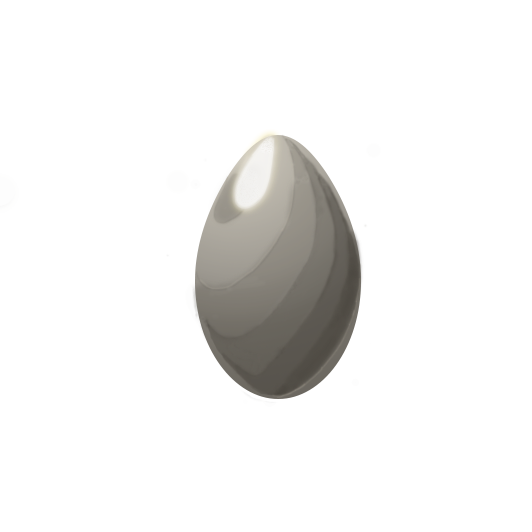
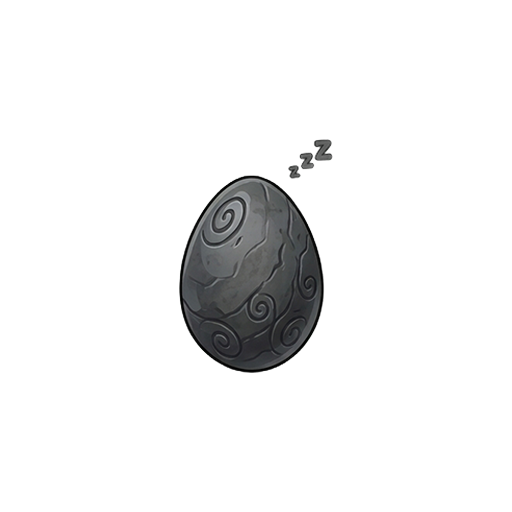
feat: Bouldog artwork, new egg stages, and particles that react to taps
Bouldog gets its three tiers, ordered by measuring each subject rather
than judging by eye, and scaled relative to one another so the growth
reads in game.

The five egg stages are replaced by the new artwork. Their natural sizes
climb from 147 to 427 pixels across the sequence, and that progression
is preserved rather than normalised, so the egg visibly grows as it
nears hatching.

Tapping the egg now throws particles outward. They are drawn in code
rather than added as assets: no weight, and their colour follows the
egg's stage from grey to gold. Only the outward push is animated while
starting positions are computed once outside the component, since
recomputing them per render would make the dust flicker.

Two constraints shaped this. A single animated value drives all ten
particles, because one value each would multiply the per-tap work by ten
against an autoclicker running near seven taps a second. And the burst
restarts at most every 140ms — without that guard it would relaunch
every 150ms against a 460ms animation, so the particles would never
leave the egg. No tap triggers a setState, and the layer takes
pointerEvents none so the tap zone stays whole.

Changed region(s): [[0.3438, 0.25, 0.6875, 0.75]]

diff --git a/mobile/src/screens/games/ClickerScreen.js b/mobile/src/screens/games/ClickerScreen.js
@@ -767,6 +767,21 @@ export default function ClickerScreen({ onBack, onOpenOptions, onOpenQuests }) {
   // distingue plus "je récolte des pièces" de "je casse l'œuf".
   const eggShake = useRef(new Animated.Value(0)).current;
 
+  // ---- Particules de l'œuf ----
+  //
+  // Les illustrations portent des poussières PEINTES, donc figées. Ces
+  // particules-ci sont DESSINÉES par le code : elles jaillissent à chaque
+  // tap puis retombent.
+  //
+  // ⚠ UNE SEULE valeur animée pilote les 10 particules. Une valeur par
+  // particule multiplierait par 10 le travail à chaque tap — or
+  // l'autoclicker de l'utilisateur monte à ~7 taps/s.
+  //
+  // ⚠ `useNativeDriver: true` : l'animation tourne sur le thread natif,
+  // sans repasser par React. Aucun `setState` n'est déclenché par un tap.
+  const eggBurst = useRef(new Animated.Value(0)).current;
+  const eggBurstAtRef = useRef(0);
+
   // Lueur du bouton cadeau qui respire (04/09, demande explicite).
   // useNativeDriver: true — tourne sur le thread natif, jamais recalculé
   // par React à chaque re-rendu de cet écran (contrairement au piège du
@@ -2263,6 +2278,16 @@ export default function ClickerScreen({ onBack, onOpenOptions, onOpenQuests }) {
     // Secousse à chaque coup porté sur la coquille. Séquence courte et
     // symétrique qui revient toujours à 0 : impossible que l'œuf reste
     // figé de travers si le joueur tape en rafale.
+    // Jaillissement des particules. RELANCÉ AU PLUS toutes les 140 ms :
+    // à 7 taps/s l'animation serait sinon redémarrée avant d'avoir joué,
+    // et les particules resteraient collées à l'œuf.
+    const maintenantBurst = Date.now();
+    if (maintenantBurst - eggBurstAtRef.current > 140) {
+      eggBurstAtRef.current = maintenantBurst;
+      eggBurst.setValue(0);
+      Animated.timing(eggBurst, { toValue: 1, duration: 460, useNativeDriver: true }).start();
+    }
+
     eggShake.stopAnimation(() => {
       eggShake.setValue(0);
       Animated.sequence([
@@ -2700,6 +2725,11 @@ export default function ClickerScreen({ onBack, onOpenOptions, onOpenQuests }) {
                         tap. L'œuf n'est pas démonté : seule l'IMAGE
                         change, si bien que son palier, ses animations et
                         sa progression sont intacts au retour. */}
+                    {/* Particules posées SUR l'œuf. Jamais pendant un
+                        combat de boss : il a sa propre mise en scène. */}
+                    {!boss && (
+                      <EggParticles size={250} burst={eggBurst} stageIndex={eggStageIndex} />
+                    )}
                     {boss ? (
                       <Image
                         source={GUARDIAN_ART}
@@ -3104,6 +3134,60 @@ export default function ClickerScreen({ onBack, onOpenOptions, onOpenQuests }) {
 // Calendrier de connexion, calque sur la maquette : grille irreguliere
 // (3 petites cases, 2 grandes, 2 moyennes) ou la taille signale
 // l'importance du lot, le jour 7 encadre en dore.
+// Particules qui jaillissent de l'œuf à chaque tap.
+//
+// Dessinées par le code, pas des images : aucun poids ajouté, et la
+// couleur suit le palier de l'œuf (gris au début, or à l'éclosion).
+//
+// ⚠ Les positions de départ sont FIXES (calculées une seule fois hors
+// du composant). Les recalculer à chaque rendu ferait scintiller les
+// particules.
+const EGG_PARTICLE_COUNT = 10;
+const EGG_PARTICLES = Array.from({ length: EGG_PARTICLE_COUNT }, (_, i) => {
+  // Angle d'or : réparties en spirale plutôt qu'en cercle régulier, qui
+  // se lirait comme un motif et non comme de la poussière.
+  const angle = (i * 137.5 * Math.PI) / 180;
+  return {
+    angle,
+    rayon: 0.30 + (((i * 7) % 11) / 11) * 0.16,
+    taille: 3 + ((i * 5) % 3),
+    portee: 26 + ((i * 13) % 18),
+  };
+});
+const EGG_PARTICLE_COLORS = ['#8a8f99', '#c9a227', '#ffcf3f', '#ffd76a', '#fff0b0'];
+
+function EggParticles({ size, burst, stageIndex }) {
+  const couleur = EGG_PARTICLE_COLORS[Math.min(EGG_PARTICLE_COLORS.length - 1, Math.max(0, stageIndex || 0))];
+  return (
+    <View pointerEvents="none" style={[styles.eggParticleLayer, { width: size, height: size }]}>
+      {EGG_PARTICLES.map((p, i) => (
+        <Animated.View
+          key={i}
+          style={[
+            styles.eggParticle,
+            {
+              width: p.taille, height: p.taille, borderRadius: p.taille / 2,
+              backgroundColor: couleur,
+              opacity: burst.interpolate({ inputRange: [0, 0.15, 1], outputRange: [0.35, 1, 0] }),
+              transform: [
+                { translateX: Animated.add(
+                    Math.cos(p.angle) * p.rayon * size,
+                    burst.interpolate({ inputRange: [0, 1], outputRange: [0, Math.cos(p.angle) * p.portee] }),
+                  ) },
+                { translateY: Animated.add(
+                    Math.sin(p.angle) * p.rayon * size,
+                    burst.interpolate({ inputRange: [0, 1], outputRange: [0, Math.sin(p.angle) * p.portee] }),
+                  ) },
+                { scale: burst.interpolate({ inputRange: [0, 0.2, 1], outputRange: [0.8, 1.25, 0.5] }) },
+              ],
+            },
+          ]}
+        />
+      ))}
+    </View>
+  );
+}
+
 function DailyCalendarModal({ calendar, currentDay, alreadyClaimedToday, onClaim, onClose }) {
   if (!Array.isArray(calendar) || calendar.length === 0) return null;
   const ready = !alreadyClaimedToday;
@@ -4597,6 +4681,10 @@ const styles = StyleSheet.create({
   },
   tapEmoji: { fontSize: 84 },
   eggImage: { width: 250, height: 250 },
+  // Couche des particules : superposée à l'œuf, centrée, SANS capture de
+  // clics — la zone de tap doit rester entière.
+  eggParticleLayer: { position: 'absolute', alignItems: 'center', justifyContent: 'center', zIndex: 2 },
+  eggParticle: { position: 'absolute' },
   // Zone regroupant les textes sous l'œuf — position ABSOLUE, juste
   // sous tapZone (top 56,4% + hauteur fixe 290 + petite marge).
   // Zone regroupant les textes sous l'œuf — position ABSOLUE, juste

diff --git a/mobile/src/components/CreatureArt.js b/mobile/src/components/CreatureArt.js
@@ -32,6 +32,11 @@ const CREATURE_ART = {
   gardien: [
     require('../../assets/creatures/gardien/gardien.png'),
   ],
+  bouldog: [
+    require('../../assets/creatures/bouldog/stage-0.png'),
+    require('../../assets/creatures/bouldog/stage-1.png'),
+    require('../../assets/creatures/bouldog/stage-2.png'),
+  ],
   ventis: [
     require('../../assets/creatures/ventis/stage-0.png'),
     require('../../assets/creatures/ventis/stage-1.png'),
